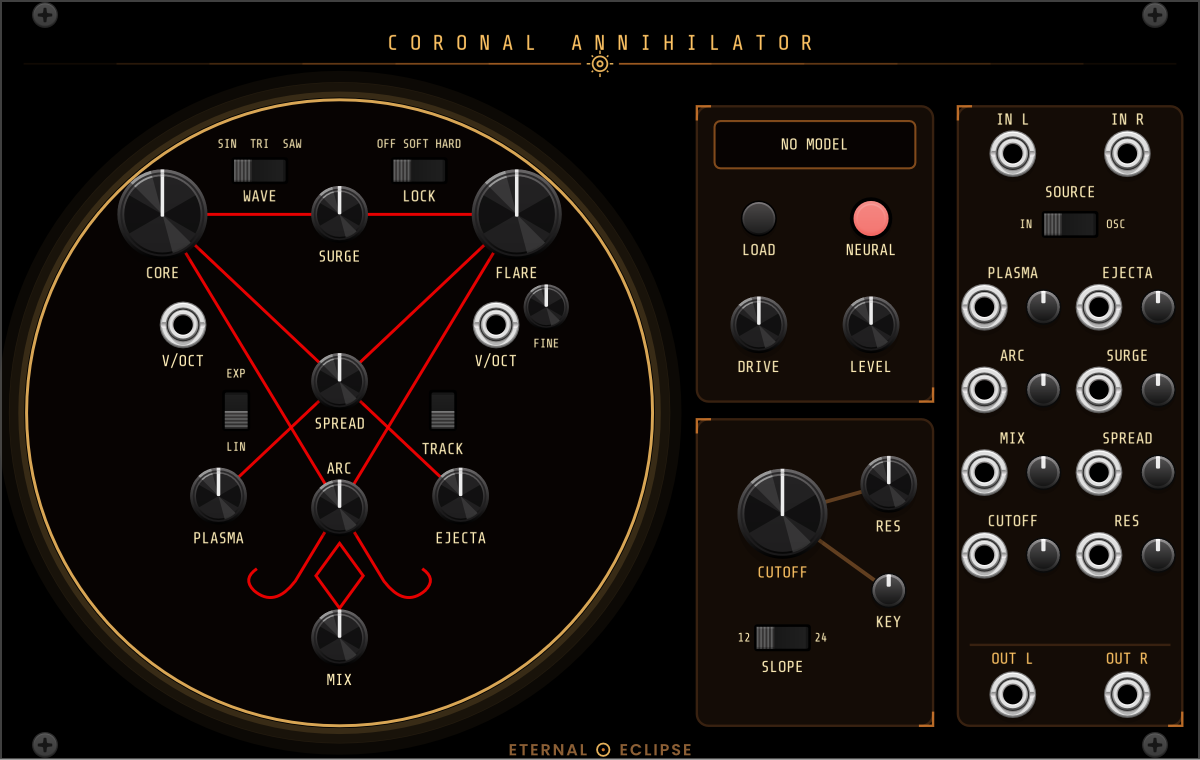
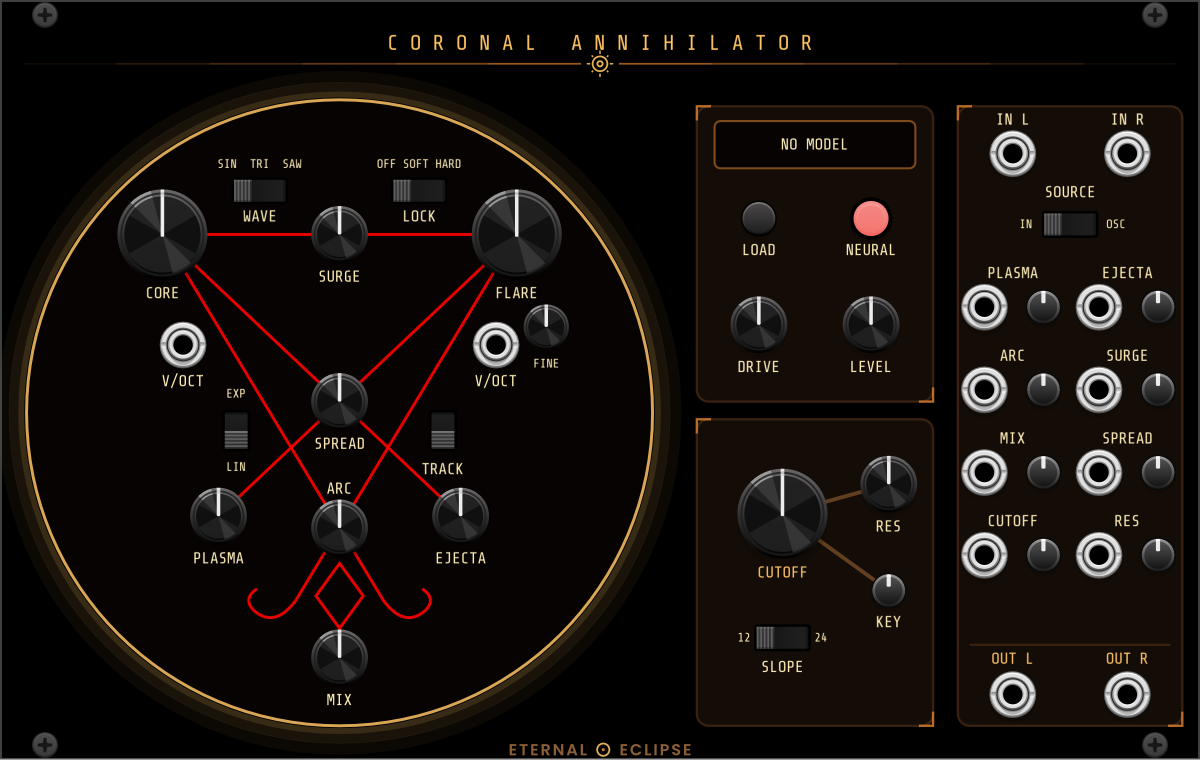
Coronal Annihilator: center sigil content in the eclipse disc (OMN-87)
Everything inside the circle shifted down 3.4 mm so the clearance from
the CORE/FLARE knob edges to the rim equals the clearance below the
MIX label (~2.8 mm all around). Docs screenshot refreshed.

Changed region(s): [[0.0925, 0.1816, 0.4933, 0.9382]]

diff --git a/src/CoronalAnnihilator/CoronalAnnihilator.cpp b/src/CoronalAnnihilator/CoronalAnnihilator.cpp
@@ -433,7 +433,7 @@ struct LoadButton : VCVButton {
 struct CoronalAnnihilatorWidget : ModuleWidget {
 	// Sigil anchor nodes inside the eclipse disc (disc center 56.5,70 r=51
 	// in the panel SVG): the top bar's endpoints and the vertical axis
-	static constexpr float SIG_LX = 27.5f, SIG_RX = 87.5f, SIG_TY = 36.3f;
+	static constexpr float SIG_LX = 27.5f, SIG_RX = 87.5f, SIG_TY = 39.7f;
 	static constexpr float SIG_CX = 57.5f;
 	// Neural / Umbra column
 	static constexpr float NX_L = 128.5f, NX_R = 147.5f;
@@ -472,40 +472,40 @@ struct CoronalAnnihilatorWidget : ModuleWidget {
 		// mode and TRACK flank SPREAD.
 		addParam(createParamCentered<RoundBigBlackKnob>(mm2px(Vec(SIG_LX, SIG_TY)), module, CoronalAnnihilator::CORE_PITCH_PARAM));
 		addLabel(Vec(SIG_LX, SIG_TY + 10.f), "CORE");
-		addLabel(Vec(44.f, 24.4f), "SIN  TRI  SAW", eclipse::FINE_SIZE);
-		addParam(createParamCentered<CKSSThreeHorizontal>(mm2px(Vec(44.f, 28.9f)), module, CoronalAnnihilator::CORE_WAVE_PARAM));
-		addLabel(Vec(44.f, 33.3f), "WAVE");
+		addLabel(Vec(44.f, 27.8f), "SIN  TRI  SAW", eclipse::FINE_SIZE);
+		addParam(createParamCentered<CKSSThreeHorizontal>(mm2px(Vec(44.f, 32.3f)), module, CoronalAnnihilator::CORE_WAVE_PARAM));
+		addLabel(Vec(44.f, 36.7f), "WAVE");
 		addParam(createParamCentered<RoundBigBlackKnob>(mm2px(Vec(SIG_RX, SIG_TY)), module, CoronalAnnihilator::FLARE_PITCH_PARAM));
 		addLabel(Vec(SIG_RX, SIG_TY + 10.f), "FLARE");
-		addParam(createParamCentered<RoundSmallBlackKnob>(mm2px(Vec(92.5f, 52.f)), module, CoronalAnnihilator::FLARE_FINE_PARAM));
-		addLabel(Vec(92.5f, 58.2f), "FINE", eclipse::FINE_SIZE);
+		addParam(createParamCentered<RoundSmallBlackKnob>(mm2px(Vec(92.5f, 55.4f)), module, CoronalAnnihilator::FLARE_FINE_PARAM));
+		addLabel(Vec(92.5f, 61.6f), "FINE", eclipse::FINE_SIZE);
 
-		addLabel(Vec(71.f, 24.4f), "OFF SOFT HARD", eclipse::FINE_SIZE);
-		addParam(createParamCentered<CKSSThreeHorizontal>(mm2px(Vec(71.f, 28.9f)), module, CoronalAnnihilator::LOCK_PARAM));
-		addLabel(Vec(71.f, 33.3f), "LOCK");
+		addLabel(Vec(71.f, 27.8f), "OFF SOFT HARD", eclipse::FINE_SIZE);
+		addParam(createParamCentered<CKSSThreeHorizontal>(mm2px(Vec(71.f, 32.3f)), module, CoronalAnnihilator::LOCK_PARAM));
+		addLabel(Vec(71.f, 36.7f), "LOCK");
 		addParam(createParamCentered<RoundBlackKnob>(mm2px(Vec(SIG_CX, SIG_TY)), module, CoronalAnnihilator::SURGE_PARAM));
-		addLabel(Vec(SIG_CX, 43.5f), "SURGE");
-		addLabel(Vec(40.f, 63.3f), "EXP", eclipse::FINE_SIZE);
-		addParam(createParamCentered<CKSS>(mm2px(Vec(40.f, 69.5f)), module, CoronalAnnihilator::FM_MODE_PARAM));
-		addLabel(Vec(40.f, 75.7f), "LIN", eclipse::FINE_SIZE);
-		addParam(createParamCentered<CKSS>(mm2px(Vec(75.f, 69.5f)), module, CoronalAnnihilator::TRACK_PARAM));
-		addLabel(Vec(75.f, 76.1f), "TRACK");
+		addLabel(Vec(SIG_CX, 46.9f), "SURGE");
+		addLabel(Vec(40.f, 66.7f), "EXP", eclipse::FINE_SIZE);
+		addParam(createParamCentered<CKSS>(mm2px(Vec(40.f, 72.9f)), module, CoronalAnnihilator::FM_MODE_PARAM));
+		addLabel(Vec(40.f, 79.1f), "LIN", eclipse::FINE_SIZE);
+		addParam(createParamCentered<CKSS>(mm2px(Vec(75.f, 72.9f)), module, CoronalAnnihilator::TRACK_PARAM));
+		addLabel(Vec(75.f, 79.5f), "TRACK");
 
-		addLabel(Vec(31.f, 61.2f), "V/OCT");
-		addInput(createInputCentered<PJ301MPort>(mm2px(Vec(31.f, 55.f)), module, CoronalAnnihilator::CORE_VOCT_INPUT));
-		addLabel(Vec(84.f, 61.2f), "V/OCT");
-		addInput(createInputCentered<PJ301MPort>(mm2px(Vec(84.f, 55.f)), module, CoronalAnnihilator::FLARE_VOCT_INPUT));
+		addLabel(Vec(31.f, 64.6f), "V/OCT");
+		addInput(createInputCentered<PJ301MPort>(mm2px(Vec(31.f, 58.4f)), module, CoronalAnnihilator::CORE_VOCT_INPUT));
+		addLabel(Vec(84.f, 64.6f), "V/OCT");
+		addInput(createInputCentered<PJ301MPort>(mm2px(Vec(84.f, 58.4f)), module, CoronalAnnihilator::FLARE_VOCT_INPUT));
 
-		addParam(createParamCentered<RoundBlackKnob>(mm2px(Vec(SIG_CX, 64.6f)), module, CoronalAnnihilator::SPREAD_PARAM));
-		addLabel(Vec(SIG_CX, 71.8f), "SPREAD");
-		addParam(createParamCentered<RoundBlackKnob>(mm2px(Vec(37.f, 84.f)), module, CoronalAnnihilator::PLASMA_PARAM));
-		addLabel(Vec(37.f, 91.2f), "PLASMA");
-		addParam(createParamCentered<RoundBlackKnob>(mm2px(Vec(78.f, 84.f)), module, CoronalAnnihilator::EJECTA_PARAM));
-		addLabel(Vec(78.f, 91.2f), "EJECTA");
-		addLabel(Vec(SIG_CX, 79.4f), "ARC");
-		addParam(createParamCentered<RoundBlackKnob>(mm2px(Vec(SIG_CX, 86.f)), module, CoronalAnnihilator::ARC_PARAM));
-		addParam(createParamCentered<RoundBlackKnob>(mm2px(Vec(SIG_CX, 108.f)), module, CoronalAnnihilator::MIX_PARAM));
-		addLabel(Vec(SIG_CX, 115.2f), "MIX");
+		addParam(createParamCentered<RoundBlackKnob>(mm2px(Vec(SIG_CX, 68.f)), module, CoronalAnnihilator::SPREAD_PARAM));
+		addLabel(Vec(SIG_CX, 75.2f), "SPREAD");
+		addParam(createParamCentered<RoundBlackKnob>(mm2px(Vec(37.f, 87.4f)), module, CoronalAnnihilator::PLASMA_PARAM));
+		addLabel(Vec(37.f, 94.6f), "PLASMA");
+		addParam(createParamCentered<RoundBlackKnob>(mm2px(Vec(78.f, 87.4f)), module, CoronalAnnihilator::EJECTA_PARAM));
+		addLabel(Vec(78.f, 94.6f), "EJECTA");
+		addLabel(Vec(SIG_CX, 82.8f), "ARC");
+		addParam(createParamCentered<RoundBlackKnob>(mm2px(Vec(SIG_CX, 89.4f)), module, CoronalAnnihilator::ARC_PARAM));
+		addParam(createParamCentered<RoundBlackKnob>(mm2px(Vec(SIG_CX, 111.4f)), module, CoronalAnnihilator::MIX_PARAM));
+		addLabel(Vec(SIG_CX, 118.6f), "MIX");
 
 		// ===== Neural =====
 		NamModelDisplay* display = new NamModelDisplay;
